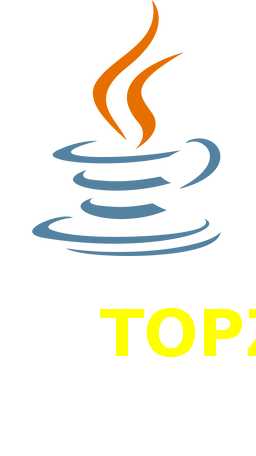
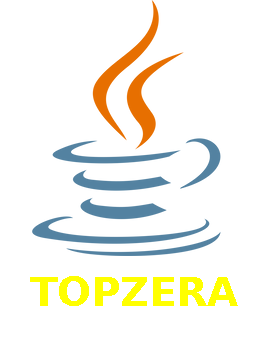
Modificando a fonte do Título da imagem.

Changed region(s): [[0.125, 0.0, 0.875, 0.618], [0.0938, 0.5871, 1.0, 0.8652], [0.9688, 0.7416, 1.0, 0.8034]]

diff --git a/imersao-java/alura-stickers/src/GeradoraDeFigurinhas.java b/imersao-java/alura-stickers/src/GeradoraDeFigurinhas.java
@@ -16,7 +16,7 @@ public class GeradoraDeFigurinhas {
         // cria nova imagem em memória com transparência e com tamanho novo
         int largura = imagemOriginal.getWidth();
         int altura = imagemOriginal.getHeight();
-        int novaAltura = altura + 200;
+        int novaAltura = altura + 100;
         BufferedImage novaImagem = new BufferedImage(largura, novaAltura, BufferedImage.TRANSLUCENT);
 
         // copiar a imagem original pra novo imagem (em memória)
@@ -24,12 +24,12 @@ public class GeradoraDeFigurinhas {
         graphics.drawImage(imagemOriginal, 0, 0, null);
 
         // configurar a fonte
-        var fonte = new Font(Font.SANS_SERIF, Font.BOLD, 64);
+        var fonte = new Font(Font.SANS_SERIF, Font.BOLD, 40);
         graphics.setColor(Color.YELLOW);
         graphics.setFont(fonte);
 
         // escrever uma frase na nova imagem
-        graphics.drawString("TOPZERA", 100, novaAltura - 100);
+        graphics.drawString("TOPZERA",30, novaAltura - 50);
 
         // escrever a nova imagem em um arquivo
         ImageIO.write(novaImagem, "png", new File(nomeArquivo));
